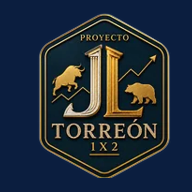
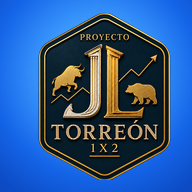
J23 v2.2: icono más grande con fondo azul, sin «Cómo calcula», resumen tiros/córners bajo el estudio por goles
Claude-Session: https://claude.ai/code/session_01NrVKduoogrqac8D736DRTx

diff --git a/index.html b/index.html
@@ -135,7 +135,7 @@ body.gaOpen{overflow:hidden}
 <meta name="viewport" content="width=device-width, initial-scale=1, viewport-fit=cover">
 <style id="velas-css">.velas{margin:8px 0 6px;padding:8px 10px;border-radius:8px;background:rgba(11,15,20,.88);color:#E8EDF5;border:1px solid #26385A}.match .velas summary,.velas summary{display:block;cursor:pointer;font-weight:700;font-size:14px;color:#FFD400;padding:2px 0}.velas .vt{font-size:12.5px;margin:4px 0 2px;color:#E8EDF5}.velas .vt small{color:#9AA8BD}.velas.no{opacity:.85}</style><title>Torreón 1X2 · Jornada 23 · Versión NO TOCAR</title>
[2 lines of base64/hex data omitted]
+<link rel="apple-touch-icon" href="apple-touch-icon.png">
 <meta name="theme-color" content="#13294B">
 <meta name="apple-mobile-web-app-title" content="Torreón 1X2">
 <meta name="application-name" content="Torreón 1X2">
@@ -901,10 +901,7 @@ button.bar .num .bst{color:#C9A227;font-weight:700}
     <div class="codWrap"><table class="codT golT" id="golEst"></table></div></details>
   </section>
 </div></div>
-  <section class="method">
-    <h2>Cómo calcula (método v8, consolidación del 20/10/2026)</h2>
-    <form class="mlock" id="metodoForm" autocomplete="off"><span class="mt">🔒 Explicación bloqueada · escribe el código para leerla</span><input type="password" inputmode="numeric" maxlength="20" placeholder="Código" aria-label="Código"><button type="submit">Abrir</button><label><input type="checkbox" checked>Recordar en este dispositivo</label><p class="le" aria-live="polite"></p></form><div id="metodoLock"></div>
-  </section>
+  
 
   <section class="gaviso" id="avisoJ20"><h3>📌 Jornada 23 · versión 2 del 19/11/2026 (Primera, Segunda y Liga F)</h3><ul>
 <li><b>⚖ Juez</b>: veredicto nuevo con todas las pruebas recogidas (8 boletos, Fiscal de los fijos, Fiscal de la X, 💰 sorpresas, 📈 gráfico, 🔮 visión futura y contexto). 2 votos particulares (casillas 1 y 14) y un empate decidido (5). Cada decisión lleva su motivo. <b>Se adapta solo</b> al formato que elijas arriba (7D, 9D, 4T+4D…).</li>
@@ -2753,8 +2750,8 @@ const EQID=[[15997, 15999], [16098, 16261], [16110, 15934], [15702, 16270], [160
   }
   function resumenCT(){
     var host=document.getElementById("ctRes");
-    if(!host){var m0=document.getElementById("m0");if(!m0||!m0.parentNode)return;
-      m0.parentNode.insertAdjacentHTML("afterend",'<details class="ctRes" id="ctRes" open><summary>🎯🚩 Resumen: qué dicen los tiros a puerta y los córners</summary><div id="ctResB"></div></details>');host=document.getElementById("ctRes")}
+    if(!host){var m0=document.getElementById("golesAviso")||document.getElementById("m0");if(!m0||!m0.parentNode)return;
+      m0.insertAdjacentHTML("afterend",'<details class="ctRes" id="ctRes"><summary>🎯🚩 Resumen: qué dicen los tiros a puerta y los córners</summary><div id="ctResB"></div></details>');host=document.getElementById("ctRes")}
     var sg=(boletoBase().signs||[]),pl=state.pleno?((state.pleno.l||"")+"-"+(state.pleno.v||"")):"";
     var h="<ol style='padding-left:20px;margin:8px 0'>";
     for(var i=0;i<14;i++)h+="<li><b>"+MATCHES[i][0]+" – "+MATCHES[i][1]+"</b> ["+(sg[i]||"–")+"]: "+consejo(i,sg[i]||"")+"</li>";

diff --git a/sw.js b/sw.js
@@ -1,6 +1,6 @@
 /* Torreón 1X2 · app instalable. Siempre pide la última versión a internet;
    sin conexión enseña la última que descargó. */
-const C = "torreon-v1";
+const C = "torreon-v2";
 self.addEventListener("install", e => self.skipWaiting());
 self.addEventListener("activate", e => e.waitUntil(self.clients.claim()));
 self.addEventListener("fetch", e => {
